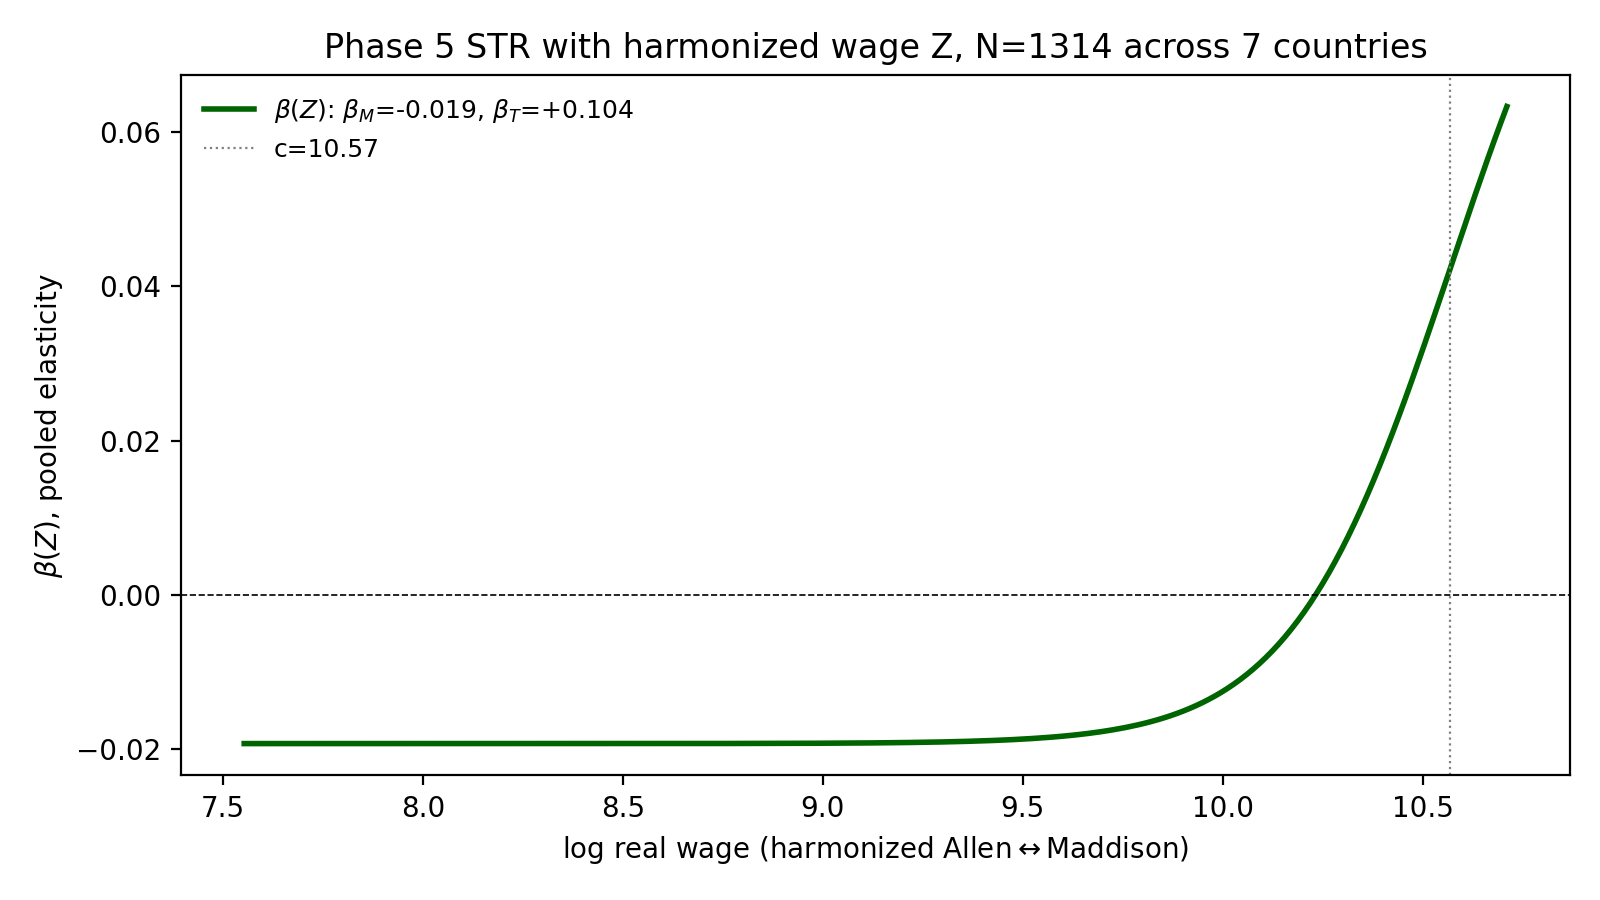
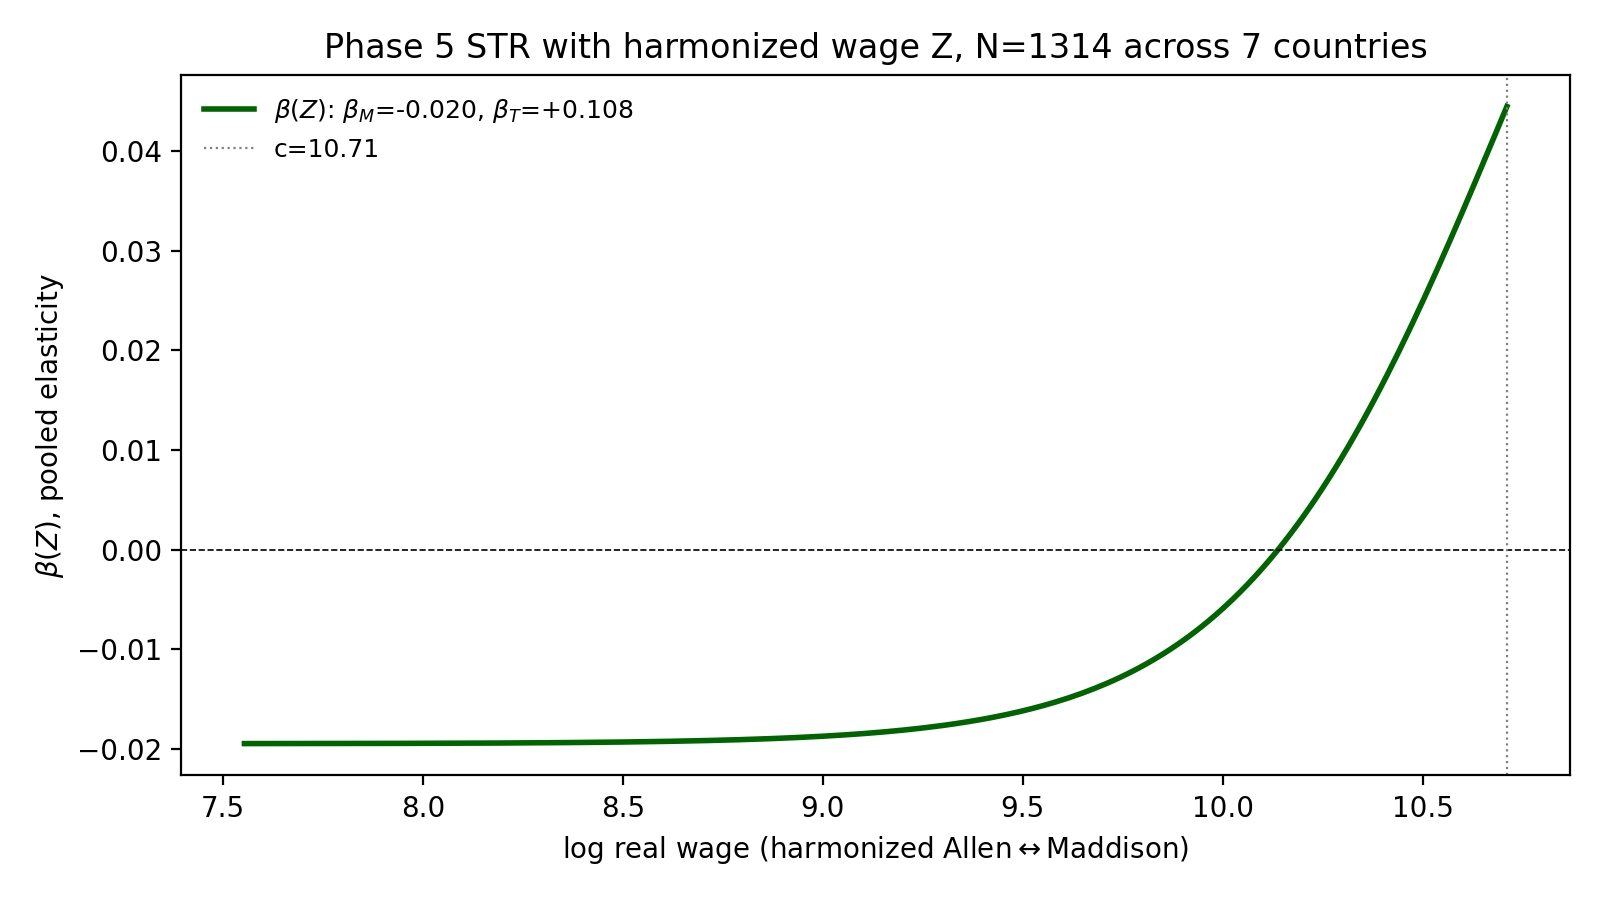
long_shadow_fertility/phase8 [B2]: Fig 10v2 STR with theta_max=3.0 bound

diff --git a/analysis/paper4_shadow/long_shadow_fertility/figures/fig10v2_str_harmonized_wage.py b/analysis/paper4_shadow/long_shadow_fertility/figures/fig10v2_str_harmonized_wage.py
@@ -23,7 +23,7 @@ def make_fig10v2():
     wages = build_real_wage_panel_v2()[["iso3", "year", "log_real_wage"]]
     df = panel.merge(wages, on=["iso3", "year"], how="left")
     sub = df.dropna(subset=["log_cbr", "t_growing", "log_real_wage"])
-    fit = fit_pooled_smooth_transition(sub, y="log_cbr", x="t_growing", z="log_real_wage")
+    fit = fit_pooled_smooth_transition(sub, y="log_cbr", x="t_growing", z="log_real_wage", theta_max=3.0)
 
     z_grid = np.linspace(sub["log_real_wage"].min(), sub["log_real_wage"].max(), 200)
     g = 1.0 / (1.0 + np.exp(-fit["theta"] * (z_grid - fit["c"])))
